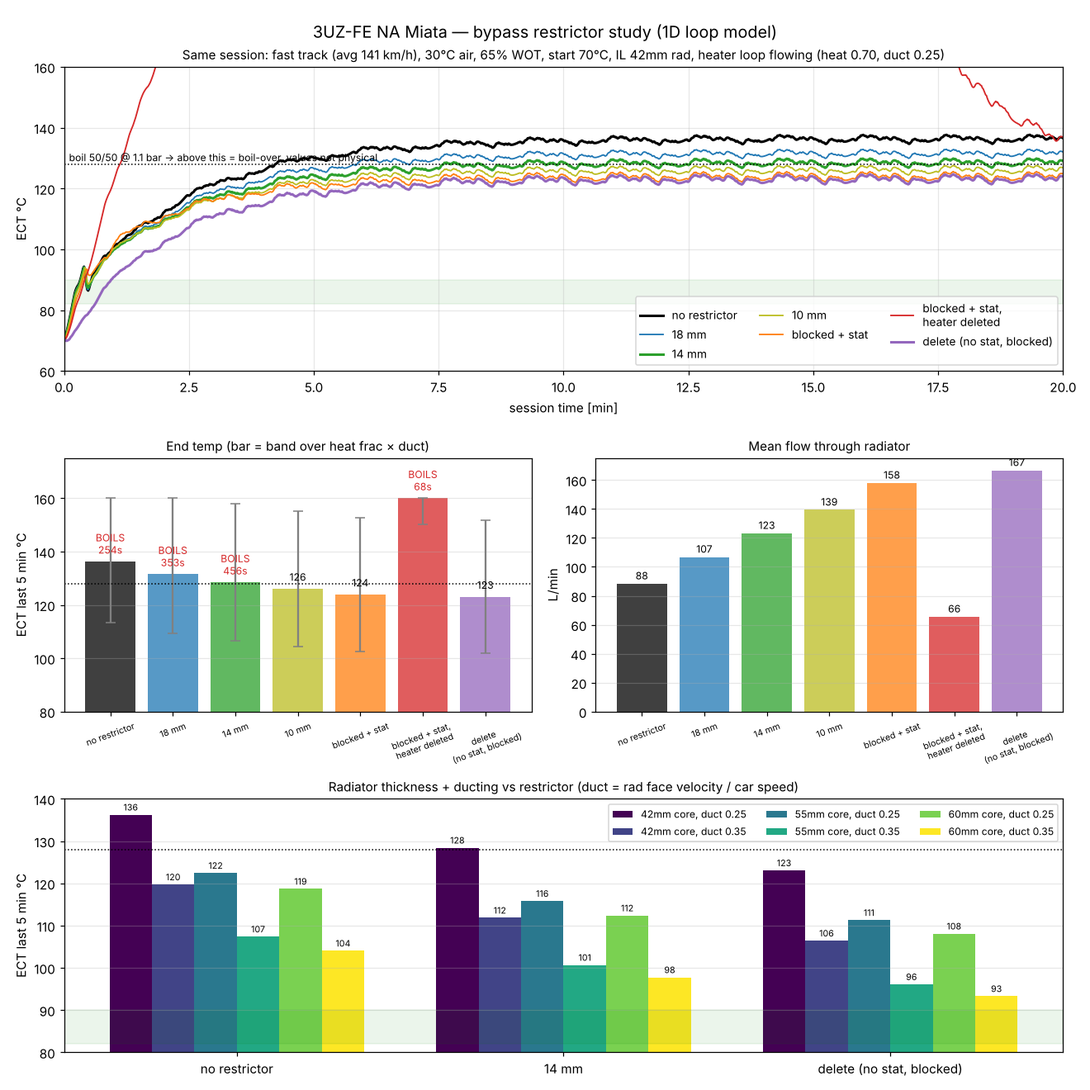
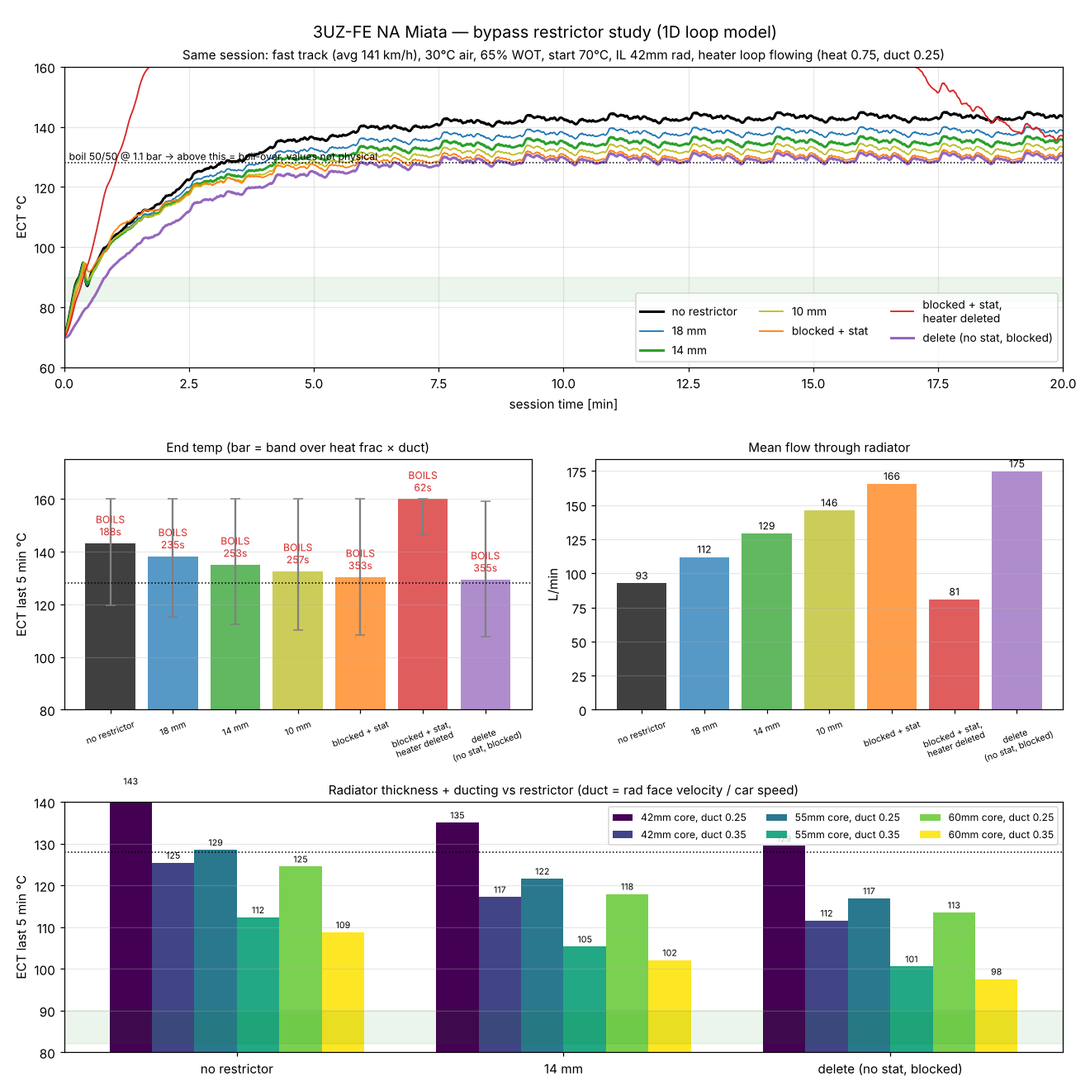
Default engine heat 0.75, shift point 6500 rpm (slider 5500-7000); rerun results, README numbers
Claude-Session: https://claude.ai/code/session_01JWKJzs8F38i9UHtpiugpQm

diff --git a/app/index.html b/app/index.html
@@ -148,10 +148,11 @@ input[type=range]:focus-visible { outline: 2px solid var(--accent); outline-offs
     return kK(0.5 * (1 - b2) ** 0.75 + (1 - b2) ** 2, d);
   }
   const torqueWot = rpm => 434 - 66 * ((rpm - 3400) / 2200) ** 2;   // 3UZ-FE stock
-  const GEAR_TOP = [18, 27, 37, 48, 62];
+  const GEAR_TOP = [18, 27, 37, 48, 62];   // m/s at 6200 rpm per gear (fixed gearing)
+  let SHIFT = 6500;
   function rpmFromV(v) {
-    for (const g of GEAR_TOP) if (v <= 0.98 * g) return Math.max(1500, 6200 * v / g);
-    return 6200;
+    for (const g of GEAR_TOP) if (v <= 0.98 * g * SHIFT / 6200) return Math.max(1500, 6200 * v / g);
+    return SHIFT;
   }
   const LAP = [[12, 22, 5], [6, 28, 4], [20, 18, 7], [8, 25, 5], [10, 30, 4], [9, 20, 10]]; // wot s, corner m/s, off s
 
@@ -167,7 +168,7 @@ input[type=range]:focus-visible { outline: 2px solid var(--accent); outline-offs
     ww: false,           // Water Wetter (surfactant): ~+8% coolant-side heat transfer
     ocPct: 0, ocThick: 42, ocMount: 'front', ocModel: 'custom',
     ocStat: true, ocOpen: 80,   // oil thermostat (sandwich plate): opens at ocOpen, full at +10
-    fc: 0.70, fOil: 0.22,
+    fc: 0.75, fOil: 0.22, shift: 6500,
   };
 
   // Lap: six straights. All speeds (corners, top-speed asymptote, start) scale by f; f is solved so the
@@ -195,6 +196,7 @@ input[type=range]:focus-visible { outline: 2px solid var(--accent); outline-offs
 
   function run(opts) {
     const o = Object.assign({}, DEFAULTS, opts);
+    SHIFT = o.shift;
     const dt = 0.02, steps = Math.round(o.minutes * 60 / dt), every = Math.round(1 / dt);
     const CP = 4190 - 11.8 * o.glycol;
     // coolant-side heat transfer vs mix: glycol is more viscous, worse conductor (h ~ -35% at 50/50 vs water).
@@ -359,10 +361,11 @@ input[type=range]:focus-visible { outline: 2px solid var(--accent); outline-offs
     return kK(0.5 * (1 - b2) ** 0.75 + (1 - b2) ** 2, d);
   }
   const torqueWot = rpm => 434 - 66 * ((rpm - 3400) / 2200) ** 2;   // 3UZ-FE stock
-  const GEAR_TOP = [18, 27, 37, 48, 62];
+  const GEAR_TOP = [18, 27, 37, 48, 62];   // m/s at 6200 rpm per gear (fixed gearing)
+  let SHIFT = 6500;
   function rpmFromV(v) {
-    for (const g of GEAR_TOP) if (v <= 0.98 * g) return Math.max(1500, 6200 * v / g);
-    return 6200;
+    for (const g of GEAR_TOP) if (v <= 0.98 * g * SHIFT / 6200) return Math.max(1500, 6200 * v / g);
+    return SHIFT;
   }
   const LAP = [[12, 22, 5], [6, 28, 4], [20, 18, 7], [8, 25, 5], [10, 30, 4], [9, 20, 10]]; // wot s, corner m/s, off s
 
@@ -378,7 +381,7 @@ input[type=range]:focus-visible { outline: 2px solid var(--accent); outline-offs
     ww: false,           // Water Wetter (surfactant): ~+8% coolant-side heat transfer
     ocPct: 0, ocThick: 42, ocMount: 'front', ocModel: 'custom',
     ocStat: true, ocOpen: 80,   // oil thermostat (sandwich plate): opens at ocOpen, full at +10
-    fc: 0.70, fOil: 0.22,
+    fc: 0.75, fOil: 0.22, shift: 6500,
   };
 
   // Lap: six straights. All speeds (corners, top-speed asymptote, start) scale by f; f is solved so the
@@ -406,6 +409,7 @@ input[type=range]:focus-visible { outline: 2px solid var(--accent); outline-offs
 
   function run(opts) {
     const o = Object.assign({}, DEFAULTS, opts);
+    SHIFT = o.shift;
     const dt = 0.02, steps = Math.round(o.minutes * 60 / dt), every = Math.round(1 / dt);
     const CP = 4190 - 11.8 * o.glycol;
     // coolant-side heat transfer vs mix: glycol is more viscous, worse conductor (h ~ -35% at 50/50 vs water).
@@ -605,6 +609,7 @@ function describe(o) {
   if (o.vTrack !== D.vTrack) p.push(`track avg ${o.vTrack} km/h`);
   if (o.pulley !== D.pulley) p.push(`pump ×${o.pulley}`);
   if (o.fc !== D.fc) p.push(`heat ${o.fc}`);
+  if (o.shift !== D.shift) p.push(`shift ${o.shift}`);
   return p.join(' · ');
 }
 
@@ -833,6 +838,8 @@ function App() {
         <${Group} title="Engine and track" open=${false}>
           <${Slider} id="hp" label="Engine power" value=${o.hp} min=${200} max=${450} step=${10} unit=" hp" hint="3UZ-FE stock: 290 hp" onChange=${set('hp')} />
           <${Slider} id="wot" label="Full throttle share of lap" value=${o.wot} min=${30} max=${85} unit="%" onChange=${set('wot')} />
+          <${Slider} id="shift" label="Shift point" value=${o.shift} min=${5500} max=${7000} step=${100} unit=" rpm"
+            hint="3UZ-FE peak power at 5600 rpm; limiters are usually set around 7000." onChange=${set('shift')} />
           <${Slider} id="vTrack" label="Track average speed" value=${o.vTrack} min=${50} max=${160} step=${5} unit=" km/h" ends=${['tight, 50', 'fast, 160']} onChange=${set('vTrack')}
             hint=${(s ? `Top speed ≈${s.vMax.toFixed(0)} km/h. ` : '') + '141 = fast circuit, 60 = tight club or kart-style track. Slow tracks put less air through the radiator; they usually have less full throttle too, so lower that as well.'} />
           <${Slider} id="minutes" label="Session length" value=${o.minutes} min=${5} max=${40} unit=" min" onChange=${set('minutes')} />
@@ -840,7 +847,7 @@ function App() {
         <//>
         <${Group} title="Model calibration" open=${false}>
           <${Slider} id="fc" label="Engine heat into coolant + oil" value=${o.fc} min=${0.5} max=${0.9} step=${0.05} fmt=${v => `${v.toFixed(2)} × power`}
-            hint="Fitted to forum track data from turbo and supercharged Miatas: 0.70. Absolute temps ±20°C, comparisons are solid." onChange=${set('fc')} />
+            hint="Forum track data from turbo and supercharged Miatas fits 0.65–0.75. Default 0.75: a big 4.3 L V8 at 67 hp/L has more hot wall area per kW. Absolute temps ±20°C, comparisons are solid." onChange=${set('fc')} />
           <${Slider} id="fOil" label="Share of that heat into oil" value=${o.fOil} min=${0.1} max=${0.35} step=${0.01} fmt=${v => Math.round(v * 100) + '%'} onChange=${set('fOil')} />
         <//>
         ${shared && html`<div class="sharebox" role="status">${shared === 'Link copied' ? 'Link with these settings copied.' :

diff --git a/app/app.html b/app/app.html
@@ -179,6 +179,7 @@ function describe(o) {
   if (o.vTrack !== D.vTrack) p.push(`track avg ${o.vTrack} km/h`);
   if (o.pulley !== D.pulley) p.push(`pump ×${o.pulley}`);
   if (o.fc !== D.fc) p.push(`heat ${o.fc}`);
+  if (o.shift !== D.shift) p.push(`shift ${o.shift}`);
   return p.join(' · ');
 }
 
@@ -407,6 +408,8 @@ function App() {
         <${Group} title="Engine and track" open=${false}>
           <${Slider} id="hp" label="Engine power" value=${o.hp} min=${200} max=${450} step=${10} unit=" hp" hint="3UZ-FE stock: 290 hp" onChange=${set('hp')} />
           <${Slider} id="wot" label="Full throttle share of lap" value=${o.wot} min=${30} max=${85} unit="%" onChange=${set('wot')} />
+          <${Slider} id="shift" label="Shift point" value=${o.shift} min=${5500} max=${7000} step=${100} unit=" rpm"
+            hint="3UZ-FE peak power at 5600 rpm; limiters are usually set around 7000." onChange=${set('shift')} />
           <${Slider} id="vTrack" label="Track average speed" value=${o.vTrack} min=${50} max=${160} step=${5} unit=" km/h" ends=${['tight, 50', 'fast, 160']} onChange=${set('vTrack')}
             hint=${(s ? `Top speed ≈${s.vMax.toFixed(0)} km/h. ` : '') + '141 = fast circuit, 60 = tight club or kart-style track. Slow tracks put less air through the radiator; they usually have less full throttle too, so lower that as well.'} />
           <${Slider} id="minutes" label="Session length" value=${o.minutes} min=${5} max=${40} unit=" min" onChange=${set('minutes')} />
@@ -414,7 +417,7 @@ function App() {
         <//>
         <${Group} title="Model calibration" open=${false}>
           <${Slider} id="fc" label="Engine heat into coolant + oil" value=${o.fc} min=${0.5} max=${0.9} step=${0.05} fmt=${v => `${v.toFixed(2)} × power`}
-            hint="Fitted to forum track data from turbo and supercharged Miatas: 0.70. Absolute temps ±20°C, comparisons are solid." onChange=${set('fc')} />
+            hint="Forum track data from turbo and supercharged Miatas fits 0.65–0.75. Default 0.75: a big 4.3 L V8 at 67 hp/L has more hot wall area per kW. Absolute temps ±20°C, comparisons are solid." onChange=${set('fc')} />
           <${Slider} id="fOil" label="Share of that heat into oil" value=${o.fOil} min=${0.1} max=${0.35} step=${0.01} fmt=${v => Math.round(v * 100) + '%'} onChange=${set('fOil')} />
         <//>
         ${shared && html`<div class="sharebox" role="status">${shared === 'Link copied' ? 'Link with these settings copied.' :

diff --git a/app/sim.js b/app/sim.js
@@ -14,10 +14,11 @@
     return kK(0.5 * (1 - b2) ** 0.75 + (1 - b2) ** 2, d);
   }
   const torqueWot = rpm => 434 - 66 * ((rpm - 3400) / 2200) ** 2;   // 3UZ-FE stock
-  const GEAR_TOP = [18, 27, 37, 48, 62];
+  const GEAR_TOP = [18, 27, 37, 48, 62];   // m/s at 6200 rpm per gear (fixed gearing)
+  let SHIFT = 6500;
   function rpmFromV(v) {
-    for (const g of GEAR_TOP) if (v <= 0.98 * g) return Math.max(1500, 6200 * v / g);
-    return 6200;
+    for (const g of GEAR_TOP) if (v <= 0.98 * g * SHIFT / 6200) return Math.max(1500, 6200 * v / g);
+    return SHIFT;
   }
   const LAP = [[12, 22, 5], [6, 28, 4], [20, 18, 7], [8, 25, 5], [10, 30, 4], [9, 20, 10]]; // wot s, corner m/s, off s
 
@@ -33,7 +34,7 @@
     ww: false,           // Water Wetter (surfactant): ~+8% coolant-side heat transfer
     ocPct: 0, ocThick: 42, ocMount: 'front', ocModel: 'custom',
     ocStat: true, ocOpen: 80,   // oil thermostat (sandwich plate): opens at ocOpen, full at +10
-    fc: 0.70, fOil: 0.22,
+    fc: 0.75, fOil: 0.22, shift: 6500,
   };
 
   // Lap: six straights. All speeds (corners, top-speed asymptote, start) scale by f; f is solved so the
@@ -61,6 +62,7 @@
 
   function run(opts) {
     const o = Object.assign({}, DEFAULTS, opts);
+    SHIFT = o.shift;
     const dt = 0.02, steps = Math.round(o.minutes * 60 / dt), every = Math.round(1 / dt);
     const CP = 4190 - 11.8 * o.glycol;
     // coolant-side heat transfer vs mix: glycol is more viscous, worse conductor (h ~ -35% at 50/50 vs water).

diff --git a/model/uz-cooling-compare.py b/model/uz-cooling-compare.py
@@ -22,7 +22,7 @@ a0 = fig.add_subplot(gs[0, :]); a1 = fig.add_subplot(gs[1, 0]); a2 = fig.add_sub
 ends, lo, hi, qr, boil = [], [], [], [], []
 for c in CASES:
     runs = [load(f) for f in glob.glob(os.path.join(d, f'{c}_fc*_d*.json'))]
-    nom = next(r for r in runs if r['fc'] == 0.7 and r['duct'] == 0.25)
+    nom = next(r for r in runs if r['fc'] == 0.75 and r['duct'] == 0.25)
     t = np.array([x['t'] for x in nom['log']]) / 60
     T = np.array([x['T_ect'] for x in nom['log']])
     a0.plot(t, np.minimum(T, 160), color=COL[c], lw=2 if c in ('stock', 'r14', 'delete') else 1.2, label=LABEL[c])
@@ -33,7 +33,7 @@ a0.axhline(BOIL, color='k', ls=':', lw=1); a0.text(0.1, BOIL + 1, 'boil 50/50 @ 
 a0.axhspan(82, 90, color='green', alpha=0.08)
 a0.set_ylim(60, 160); a0.set_xlim(0, 20); a0.set_ylabel('ECT °C'); a0.set_xlabel('session time [min]')
 a0.legend(fontsize=9, ncol=3, loc='lower right'); a0.grid(alpha=.3)
-a0.set_title('Same session: fast track (avg 141 km/h), 30°C air, 65% WOT, start 70°C, IL 42mm rad, heater loop flowing (heat 0.70, duct 0.25)', fontsize=10)
+a0.set_title('Same session: fast track (avg 141 km/h), 30°C air, 65% WOT, start 70°C, IL 42mm rad, heater loop flowing (heat 0.75, duct 0.25)', fontsize=10)
 
 x = np.arange(len(CASES))
 show = [min(e, 160) for e in ends]
@@ -61,7 +61,7 @@ for ci, core in enumerate(cores):
     for di, du in enumerate(ducts):
         vals = []
         for c in grp:
-            f = os.path.join(d, f'rad-c{core}', f'{c}_fc0.7_d{du}.json')
+            f = os.path.join(d, f'rad-c{core}', f'{c}_fc0.75_d{du}.json')
             vals.append(load(f)['summary']['T_ect_last5min'])
         pos = np.arange(len(grp)) + (k - 2.5) * w
         bars = a3.bar(pos, vals, w, label=f'{core}mm core, duct {du}', color=plt.cm.viridis(k / 5))

diff --git a/model/uz-cooling-oil-viz.py b/model/uz-cooling-oil-viz.py
@@ -13,8 +13,8 @@ C = ['stock', 'r14', 'delete']; CL = ['no restrictor', '14 mm', 'delete']
 OC = ['none', 'front', 'side']; OL = ['no oil cooler', 'oil cooler in front of rad (20%)', 'oil cooler own duct']
 col = ['0.55', 'tab:orange', 'tab:green']
 fig, ax = plt.subplots(2, 2, figsize=(12, 8.5))
-for r, (fc, du, co, ttl) in enumerate([('0.7', '0.25', '42.0', 'IL 42mm rad, duct 0.25 (current)'),
-                                       ('0.7', '0.35', '60.0', '60mm rad, duct 0.35 (fixed front end)')]):
+for r, (fc, du, co, ttl) in enumerate([('0.75', '0.25', '42.0', 'IL 42mm rad, duct 0.25 (current)'),
+                                       ('0.75', '0.35', '60.0', '60mm rad, duct 0.35 (fixed front end)')]):
     for k, key, lab in [(0, 'T_ect_last5min', 'coolant ECT °C'), (1, 'T_oil_last5min', 'oil °C')]:
         a = ax[r, k]
         for i, oc in enumerate(OC):
@@ -24,7 +24,7 @@ for r, (fc, du, co, ttl) in enumerate([('0.7', '0.25', '42.0', 'IL 42mm rad, duc
             for p_, v in zip(pos, vals):
                 a.text(p_, v + 1, f'{v:.0f}', ha='center', fontsize=8)
             if r == 0 and k == 0:
-                lo = [rows[(c, oc, '0.6', du, co)][key] for c in C]; hi = [rows[(c, oc, '0.8', du, co)][key] for c in C]
+                lo = [rows[(c, oc, '0.65', du, co)][key] for c in C]; hi = [rows[(c, oc, '0.85', du, co)][key] for c in C]
                 a.errorbar(pos, vals, yerr=[np.array(vals) - lo, np.array(hi) - vals], fmt='none', ecolor='k', capsize=3, lw=.8)
         a.axhline(128 if k == 0 else 130, color='k', ls=':', lw=1)
         a.text(2.45, (128 if k == 0 else 130) + 1, 'boil' if k == 0 else 'oil ~130 limit', fontsize=7, ha='right')

diff --git a/model/uz-cooling-1d.py b/model/uz-cooling-1d.py
@@ -71,12 +71,13 @@ def torque_wot(rpm):  # 3UZ-FE: 434 Nm @3400, 216 kW @5600
     return 434 - 66 * ((rpm - 3400) / 2200) ** 2
 
 GEAR_TOP = [18, 27, 37, 48, 62]   # m/s at 6200 rpm, per gear
+SHIFT = 6500                      # shift point rpm
 
 def rpm_from_v(v):
     for g in GEAR_TOP:
-        if v <= 0.98 * g:
+        if v <= 0.98 * g * SHIFT / 6200:
             return max(1500.0, 6200 * v / g)
-    return 6200.0
+    return float(SHIFT)
 
 # lap: (WOT seconds, corner speed after the braking zone m/s, off-throttle seconds)
 LAP = [(12, 22, 5), (6, 28, 4), (20, 18, 7), (8, 25, 5), (10, 30, 4), (9, 20, 10)]  # 65 s WOT / 35 s off
@@ -99,7 +100,7 @@ def eps_xflow(NTU, Cr):
         return 1 - math.exp(-NTU)
     return 1 - math.exp((NTU ** 0.22 / Cr) * (math.exp(-Cr * NTU ** 0.78) - 1))
 
-def run(case, fc=0.70, duct=0.25, t_end=1200.0, dt=0.02, overrides=None, oc='none', heater=True):
+def run(case, fc=0.75, duct=0.25, t_end=1200.0, dt=0.02, overrides=None, oc='none', heater=True):
     p = dict(P, **(overrides or {}))
     has_stat = case != 'delete'
     if case in ('stock',):
@@ -234,7 +235,7 @@ def summarize(log):
 if __name__ == '__main__':
     ap = argparse.ArgumentParser()
     ap.add_argument('case')
-    ap.add_argument('--fc', type=float, default=0.70, help='coolant heat / brake power at WOT')
+    ap.add_argument('--fc', type=float, default=0.75, help='coolant heat / brake power at WOT')
     ap.add_argument('--duct', type=float, default=0.25, help='radiator face velocity / car speed')
     ap.add_argument('--t', type=float, default=1200)
     ap.add_argument('--tair', type=float, default=30.0)

diff --git a/model/uz-cooling-viz.py b/model/uz-cooling-viz.py
@@ -1,7 +1,7 @@
 #!/usr/bin/env python3
 """Panel for uz-cooling-1d.py results.
 Usage: uz-cooling-viz.py results/uz-cooling CASE out.png
-Uses CASE_fc0.55_d0.22.json as nominal; every other CASE_fc*_d*.json forms the uncertainty band."""
+Uses CASE_fc0.75_d0.25.json as nominal; every other CASE_fc*_d*.json forms the uncertainty band."""
 import glob, json, os, sys
 import numpy as np
 import matplotlib
@@ -10,14 +10,14 @@ import matplotlib.pyplot as plt
 
 d, case, out = sys.argv[1:4]
 runs = [json.load(open(f)) for f in sorted(glob.glob(os.path.join(d, f'{case}_fc*_d*.json')))]
-nom = next(r for r in runs if r['fc'] == 0.7 and r['duct'] == 0.25)
+nom = next(r for r in runs if r['fc'] == 0.75 and r['duct'] == 0.25)
 L = nom['log']; t = np.array([r['t'] for r in L]) / 60
 g = lambda k, log=L: np.array([r[k] for r in log])
 
 fig, ax = plt.subplots(3, 1, figsize=(10, 11), sharex=True)
 band = np.array([g('T_ect', r['log']) for r in runs])
 ax[0].fill_between(t, band.min(0), band.max(0), color='tab:red', alpha=0.12,
-                   label='ECT band: heat frac 0.60-0.80 × duct 0.20-0.30')
+                   label='ECT band: heat frac 0.65-0.85 × duct 0.20-0.30')
 ax[0].plot(t, g('T_ect'), 'tab:red', lw=2, label='ECT (engine outlet, sensor)')
 ax[0].plot(t, g('T_metal'), 'tab:brown', lw=1, ls='--', label='metal (head hot-side proxy)')
 ax[0].plot(t, g('T_rad_in'), 'tab:orange', lw=1, label='radiator in')

diff --git a/README.md b/README.md
@@ -41,7 +41,7 @@ The parallel branches share one pressure drop, so flow splits as `Q_i ∝ 1/√k
 ### 2. Heat input
 
 - 3UZ-FE full-throttle torque: `T = 434 − 66·((rpm − 3400)/2200)²` Nm (434 Nm at 3400, 216 kW at 5600), scaled by the power slider.
-- Heat into the engine at full throttle = **fc × brake power**, with fc = 0.70 (calibrated, see below). Off throttle: 8 kW.
+- Heat into the engine at full throttle = **fc × brake power**, with fc = 0.75 (calibrated, see below). Off throttle: 8 kW.
 - 22 % of that heat goes to the oil (bearings, pistons, valvetrain) and the rest to the metal of the block and heads.
 
 ### 3. Thermal nodes
@@ -81,8 +81,8 @@ Plug-flow cells give real transport delays. That's what produces the hot and col
 
 ### 7. Track session
 
-- **Track speed:** a lap with six straights. Corner speeds, the top-speed limit and the start speed all scale by one factor, solved so the lap average matches the slider (50–160 km/h). 141 km/h (top ≈225) is a fast circuit; 60 km/h (top ≈86) is a tight club or kart-style track. Slow tracks put less air through the radiator and usually need a lower full-throttle share too. Full-throttle time (65 % by default) accelerates at `a = 5·(1 − (v/65)²)` m/s², scaled with power. Braking at 9 m/s² down to each corner speed (18–30 m/s).
-- **Gearing:** five gears, shifting at 6200 rpm.
+- **Track speed:** a lap with six straights. Corner speeds, the top-speed limit and the start speed all scale by one factor, solved so the lap average matches the slider (50–160 km/h). 141 km/h (top ≈225) is a fast circuit; 60 km/h (top ≈113) is a tight club or kart-style track. Slow tracks put less air through the radiator and usually need a lower full-throttle share too. Full-throttle time (65 % by default) accelerates at `a = 5·(1 − (v/65)²)` m/s², scaled with power. Braking at 9 m/s² down to each corner speed (18–30 m/s).
+- **Gearing:** five gears, shift point 6500 rpm by default (slider 5500–7000; 3UZ-FE peak power is at 5600, limiters usually sit around 7000). Torque falls off past peak power: `T = 434 − 66·((rpm − 3400)/2200)²` Nm.
 - **Start:** whole loop at the start temperature, thermostat closed.
 - **Boiling point:** `100 + 0.12·glycol% + 20·cap_bar` °C (50/50 at 1.1 bar ≈ 128 °C). Readings above it aren't physical: the coolant would boil over first.
 
@@ -96,32 +96,33 @@ Two numbers carry most of the uncertainty: **fc** (engine heat into the coolant 
 - **Supercharged Miata** (~140 kW), 37 mm Koyo, summer heat → 96–102 °C (same thread). The model gives 94–104 °C.
 - **Adapt Lab** (vendor's own numbers, not independent): UZ under hard use 104 °C and up; with the restrictor and a 77 °C (170 °F) thermostat, 84–89 °C. ([article](https://adapt-lab.com/2025/07/27/beat-the-heat-why-every-uz-engine-needs-adapt-labs-coolant-bypass-restrictor/), [product](https://adapt-lab.com/product/coolant-bypass-restrictor/))
 
-Result: fc = 0.70 and ducting 50 % (face velocity 25 % of car speed) as defaults. Once the sliders rest, the calculator also re-runs with fc ±0.1 and shows the coolant range.
+Result: the Miata data fits fc 0.65–0.75. **Default fc = 0.75**, the top of that range, because the 3UZ is a big 4.3 L V8 at 67 hp/L with more hot wall area per kW than the 1.6–1.8 L four-cylinders behind the forum numbers. Ducting default 50 % (face velocity 25 % of car speed). Once the sliders rest, the calculator also re-runs with fc ±0.1 and shows the coolant range.
 
 ## Results
 
 ![comparison](results/panels/uz-cooling-compare.png)
 
-Default scenario: 3UZ-FE stock (290 hp), stock water pump, stock inlet-side thermostat (82 °C open / 90 °C full, 2 mm jiggle hole, no bypass disc), 28 mm bypass, IL Motorsport 42 mm aluminium radiator in the NA Miata frame, heater loop flowing (no valve), 50/50 coolant, fast circuit (avg ≈141 km/h), 30 °C air, 65 % full throttle, start at 70 °C with the thermostat closed.
+Default scenario: 3UZ-FE stock (290 hp, shifting at 6500 rpm), stock water pump, stock inlet-side thermostat (82 °C open / 90 °C full, 10 mm lift, 2 mm jiggle hole, no bypass disc), 28 mm bypass, IL Motorsport 42 mm aluminium radiator in the NA Miata frame, heater loop flowing (no valve), 50/50 coolant, fast circuit (avg ≈141 km/h), 30 °C air, 65 % full throttle, start at 70 °C with the thermostat closed. Engine heat into coolant + oil = 0.75 × power.
 
 | Setup | Flow through radiator | Coolant at sensor, last 5 min |
 |---|---|---|
-| Stock bypass (28 mm, no restrictor) | 88 L/min (**59 % of the pump flow skips the radiator**: bypass + heater) | 136 °C, boils after ~4.2 min |
-| 18 mm restrictor | 107 L/min | 132 °C, boils after ~5.9 min |
-| 14 mm restrictor | 123 L/min | 128 °C, boils after ~7.6 min |
-| 10 mm restrictor | 139 L/min | 126 °C |
-| Bypass blocked, thermostat fitted, heater flowing | 158 L/min | 124 °C |
-| Bypass blocked, thermostat fitted, **heater deleted** | 66 L/min | **boils in ~68 s** (thermostat never sees hot water) |
-| Delete kit (no thermostat, bypass blocked) | 167 L/min | 123 °C |
-| 60 mm radiator + sealed ducting + 14 mm + oil cooler in its own duct | — | ~93 °C |
+| Stock bypass (28 mm, no restrictor) | 93 L/min (**58 % of the pump flow skips the radiator**: bypass + heater) | 143 °C, boils after ~3.1 min |
+| 18 mm restrictor | 112 L/min | 138 °C, boils after ~3.9 min |
+| 14 mm restrictor | 129 L/min | 135 °C, boils after ~4.2 min |
+| 10 mm restrictor | 146 L/min | 133 °C, boils after ~4.3 min |
+| Bypass blocked, thermostat fitted, heater flowing | 166 L/min | 130 °C, boils after ~5.9 min |
+| Bypass blocked, thermostat fitted, **heater deleted** | 81 L/min | **boils in ~62 s** (thermostat never sees hot water) |
+| Delete kit (no thermostat, bypass blocked) | 175 L/min | 130 °C, boils after ~5.9 min |
+| 60 mm radiator + sealed ducting + 14 mm + 19-row wide oil cooler in its own duct | — | **~95 °C** |
 
 - **The restrictor works.** The stock UZ bypass has less resistance than the radiator path, so most of the flow skips the radiator. A restrictor is worth 5–10 °C, with diminishing returns below ~14 mm.
-- **It doesn't fix a small radiator.** The air side of the radiator is the limit. Ducting (none → sealed) and core thickness (42 → 60 mm) are each worth ~15–17 °C.
-- **Blocking the bypass with the thermostat fitted only works because of the heater loop.** The thermostat sits on the pump inlet and reads the bypass water. With the bypass blocked, the heater core (no valve on a Miata) becomes the only hot flow reaching it, about 29 L/min, which acts like a ~10 mm restrictor. **Delete the heater as well and it boils in about a minute**: the thermostat only sees cold radiator water through its 2 mm hole and opens far too late.
-- **Oil cooler:** stacked in front of the radiator it removes ~13 kW from the oil but pre-heats 20 % of the radiator to ~75 °C, so coolant drops only 3–5 °C. In its own duct, coolant drops 10–15 °C. Without one, oil sits at ~155–165 °C.
-- **A brand-new, fully open thermostat still costs flow.** At 10 mm lift it is ~25 % of the radiator path's resistance: 2.7 kPa on the stock layout, 5 kPa with a 14 mm restrictor. Removing it (bypass kept) raises radiator flow ~9 % (88 → 96 L/min) and is worth only 1–2 °C. The thermostat is a minor loss; the bypass is the big one.
-- **Tight tracks are harder on cooling.** At 60 km/h average the same car runs far hotter, because there's less ram air. Even at 40 % full throttle the stock setup boils (~144 °C). The 60 mm radiator + sealed duct + 14 mm + oil cooler in its own duct still holds ~97 °C there.
-- **Coolant:** pure water + Water Wetter instead of 50/50 is worth ~10 °C on coolant, but the boiling point drops from 128 to 122 °C at a 1.1 bar cap. Water Wetter alone in 50/50 is worth ~1–2 °C.
+- **It doesn't fix a small radiator.** On the 42 mm radiator every bypass option still boils on a hot fast track. The air side of the radiator is the limit. Sealed ducting (duct 0.25 → 0.35) or a 60 mm core are each worth ~18 °C.
+- **Blocking the bypass with the thermostat fitted only works because of the heater loop.** The thermostat sits on the pump inlet and reads the bypass water. With the bypass blocked, the heater core (no valve on a Miata) becomes the only hot flow reaching it, about 30 L/min, which acts like a ~10 mm restrictor. **Delete the heater as well and it boils in about a minute**: the thermostat only sees cold radiator water through its 2 mm hole and opens far too late.
+- **A brand-new, fully open thermostat still costs flow.** At 10 mm lift it is ~25 % of the radiator path's resistance: ~3 kPa on the stock layout, ~6 kPa with a 14 mm restrictor. Removing it (bypass kept) raises radiator flow ~9 % (92 → 100 L/min) and is worth only ~2 °C. The thermostat is a minor loss; the bypass is the big one.
+- **Oil cooler:** stacked in front of the radiator it removes ~15 kW from the oil but pre-heats 20 % of the radiator to ~78 °C, so coolant drops only 3–5 °C. In its own duct, coolant drops ~14–16 °C. Without one, oil sits at ~160–175 °C.
+- **Tight tracks are harder on cooling.** At 60 km/h average there's much less ram air. Even at 40 % full throttle the stock setup boils (~152 °C). The 60 mm radiator + sealed duct + 14 mm + oil cooler in its own duct still holds ~101 °C there.
+- **Coolant:** pure water + Water Wetter instead of 50/50 is worth ~10 °C on coolant, but the boiling point drops from 128 to 122 °C at a 1.1 bar cap. Water Wetter alone in 50/50 is worth ~1.5 °C.
+- **Calibration matters more than any part:** engine heat 0.65 / 0.75 / 0.85 × power gives 129 / 143 / 158 °C on the stock setup. The ranking between setups doesn't change.
 - **Fitment:** the Adapt Lab restrictor fits the 1990–97 non-VVTi and 2002+ 3UZ water inlet housing, part **16032-50110**.
 
 **Accuracy:** absolute temperatures are ±20 °C, because the model is calibrated on forum track data, not on a logged 3UZ Miata. **Differences between setups are the reliable output.** If you have a coolant temperature log from a track session, open an issue: one log pins the calibration.

diff --git a/results/uz-cooling-log.md b/results/uz-cooling-log.md
@@ -58,3 +58,8 @@ Stat lift 9 -> 10mm (Toyota spec >=10mm @95C). Stock 136 (boil 4.2 min), r18 132
 Fully open stat = 25% of radiator-path k: 2.7 kPa stock / 5.2 kPa with r14; removing it: Qr 88->96 L/min (+9%), ECT -1.3..-2.3C.
 Track avg speed slider 50-160 km/h (lap speeds scaled, solved to hit the average). 60 km/h @65% WOT: 201C (non-physical, boils 2 min);
 60 km/h @40% WOT: 144C; recommended build @60/40%: 97C.
+
+## Round 5 — fc 0.75 default, shift 6500 (2026-10-27)
+3UZ = 4.3 L @ 67 hp/L -> more wall area per kW than the 4-cyl calibration cars -> fc at top of fit range: 0.75. Shift 6500 (limiter ~7000).
+RESULT 42mm/0.25: stock 143 (boil 3.1 min) | r18 138 | r14 135 | r10 133 | blocked 130 | blockedNH boils 62 s | delete 130 (all boil eventually).
+Best (60mm, duct 0.35, r14, 19-row wide own duct): 95. Tight 60 km/h @40% WOT: stock 152, best 101. fc 0.65/0.75/0.85 -> 129/143/158 stock.
